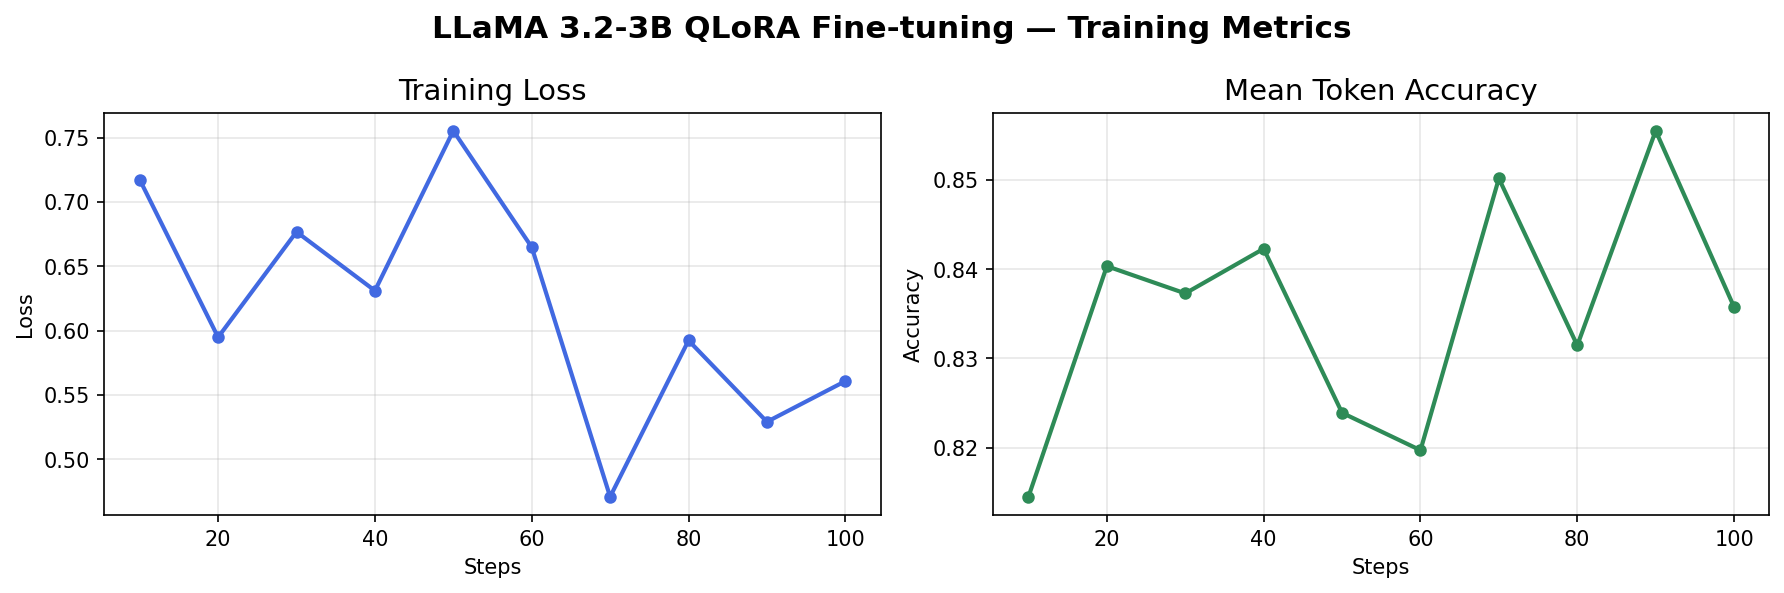
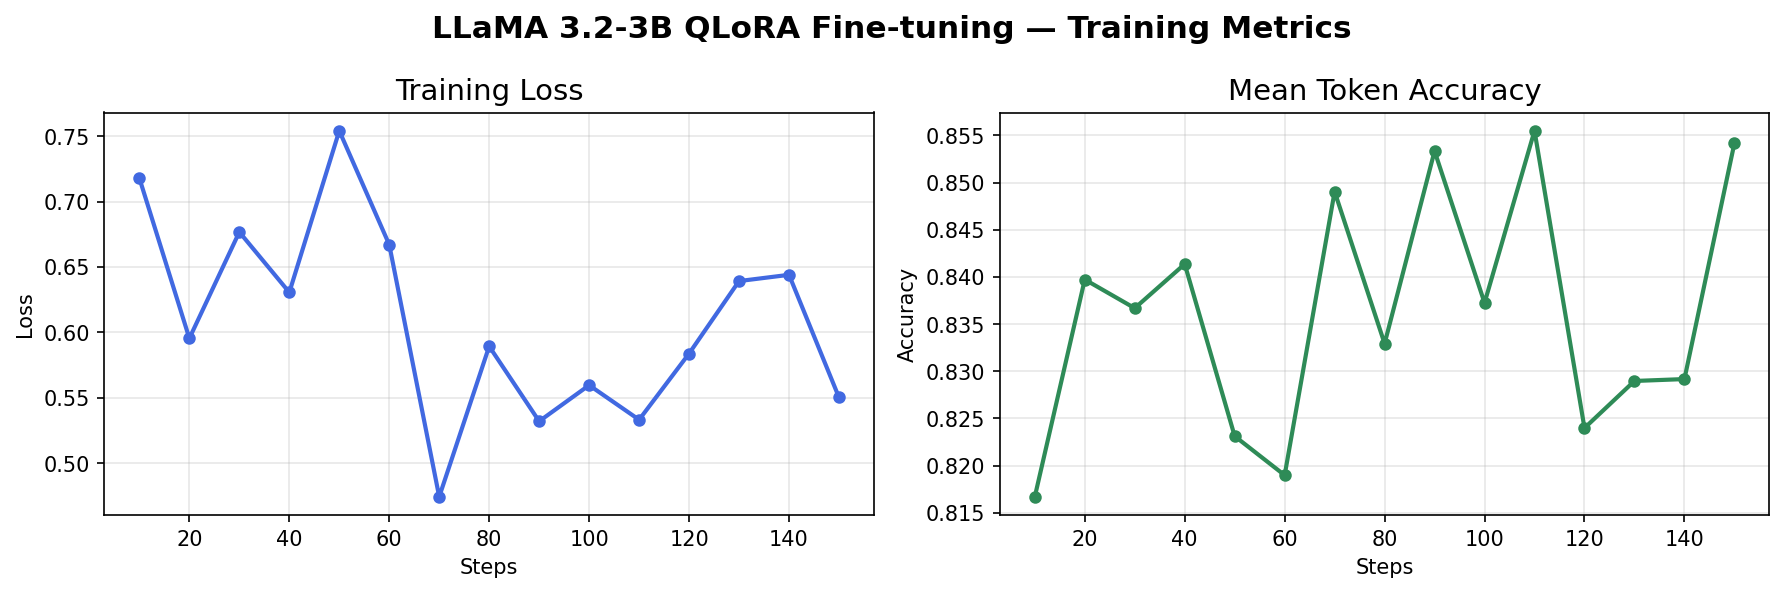
adding the plot2

diff --git a/train.py b/train.py
@@ -24,7 +24,7 @@ MAX_SEQ_LENGTH = 512   # Max tokens per sample
 BATCH_SIZE = 2         # Small batch to fit in 12GB VRAM
 GRAD_ACCUM = 4         # Simulates batch size of 8 (2x4)
 LEARNING_RATE = 2e-4   # Standard for LoRA fine-tuning
-NUM_STEPS = 100        # Small run for demo purposes
+NUM_STEPS = 1000       # Small run for demo purposes
 OUTPUT_DIR = "./llama-sft-output"
 
 # 4-bit quantization config